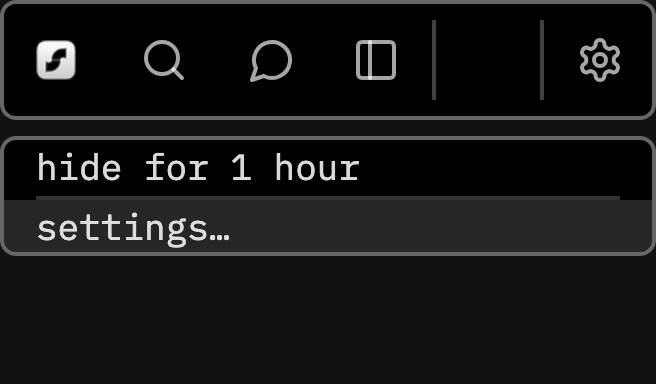
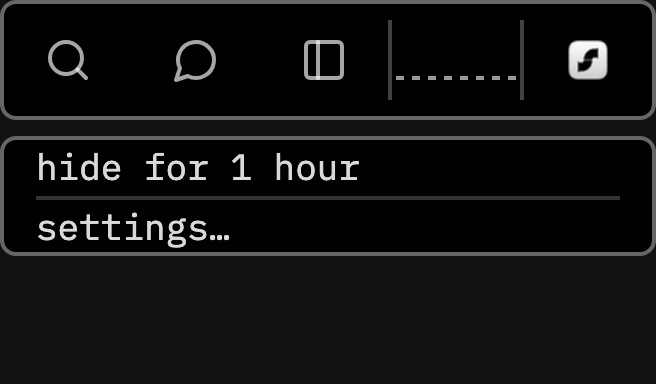
fix(overlay): move brand menu control to the right

diff --git a/apps/screenpipe-app-tauri/src-tauri/swift/shortcut_reminder_tests.swift b/apps/screenpipe-app-tauri/src-tauri/swift/shortcut_reminder_tests.swift
@@ -128,44 +128,44 @@ private func testMarginScales() {
     expectClose(top.y, visible.maxY - 8 - 16, "scaled top y")
 }
 
-/// The brand mark stays in the first expanded cell at either screen edge. The
+/// The brand mark stays in the rightmost expanded cell at either screen edge. The
 /// native context-menu handler uses this exact hit test, so a right-click on a
-/// neighboring search cell must never open the brand menu.
-private func testExpandedBrandCell() {
+/// neighboring audio cell must never open the brand menu.
+private func testExpandedBrandCellAtRight() {
     let bounds = NSRect(x: 0, y: 0, width: 160, height: 62)
     let topBrand = dockControl(
-        at: NSPoint(x: 10, y: 47),
+        at: NSPoint(x: 145, y: 47),
         in: bounds,
         expanded: true,
         disclosureDown: true,
         horizontal: .center,
         scale: 1
     )
-    expect(topBrand?.0 == "brand" && topBrand?.1 == 0, "brand should be first in top dock")
+    expect(topBrand?.0 == "brand" && topBrand?.1 == 4, "brand should be last in top dock")
 
     let search = dockControl(
-        at: NSPoint(x: 35, y: 47),
+        at: NSPoint(x: 15, y: 47),
         in: bounds,
         expanded: true,
         disclosureDown: true,
         horizontal: .center,
         scale: 1
     )
-    expect(search?.0 == "search" && search?.1 == 1, "search should follow brand")
+    expect(search?.0 == "search" && search?.1 == 0, "search should be first")
 
     let bottomBrand = dockControl(
-        at: NSPoint(x: 10, y: 15),
+        at: NSPoint(x: 145, y: 15),
         in: bounds,
         expanded: true,
         disclosureDown: false,
         horizontal: .center,
         scale: 1
     )
-    expect(bottomBrand?.0 == "brand", "brand should stay first in bottom dock")
+    expect(bottomBrand?.0 == "brand", "brand should stay last in bottom dock")
 
     expect(
         dockControl(
-            at: NSPoint(x: 10, y: 10),
+            at: NSPoint(x: 145, y: 10),
             in: bounds,
             expanded: true,
             disclosureDown: true,
@@ -176,7 +176,7 @@ private func testExpandedBrandCell() {
     )
     expect(
         dockControl(
-            at: NSPoint(x: 10, y: 47),
+            at: NSPoint(x: 145, y: 47),
             in: bounds,
             expanded: false,
             disclosureDown: true,
@@ -505,7 +505,7 @@ struct ShortcutReminderTests {
     static func main() {
         testAnchorPlacement()
         testMarginScales()
-        testExpandedBrandCell()
+        testExpandedBrandCellAtRight()
         testPadStaysOnScreen()
         testEdgeCentreSet()
         testLegacyCornersMigrate()

diff --git a/apps/screenpipe-app-tauri/app/shortcut-reminder/page.tsx b/apps/screenpipe-app-tauri/app/shortcut-reminder/page.tsx
@@ -21,7 +21,6 @@ import {
   PinOff,
   RotateCw,
   Search,
-  Settings,
   Square,
   X,
 } from "lucide-react";
@@ -802,31 +801,6 @@ export default function ShortcutReminderPage() {
         }}
       >
         <button
-          title="screenpipe — right-click for options"
-          aria-label="screenpipe — open timeline; right-click for options"
-          className={dockButtonClass}
-          style={dockButtonStyle}
-          onMouseEnter={() => setHoveredControl("brand")}
-          onMouseDown={(e) => e.stopPropagation()}
-          onPointerDown={(e) => e.stopPropagation()}
-          onClick={openTimeline}
-          onContextMenu={(e) => {
-            e.preventDefault();
-            e.stopPropagation();
-            setSettingsOpen(true);
-          }}
-        >
-          <span
-            aria-hidden="true"
-            className="bg-contain bg-center bg-no-repeat"
-            style={{
-              width: `${12 * overlayScale}px`,
-              height: `${12 * overlayScale}px`,
-              backgroundImage: "url('/32x32.png')",
-            }}
-          />
-        </button>
-        <button
           title="Open search"
           className={dockButtonClass}
           style={dockButtonStyle}
@@ -880,15 +854,29 @@ export default function ShortcutReminderPage() {
         </div>
         <div className="my-1 bg-white/25" style={{ width: "1px" }} />
         <button
-          title="Overlay settings"
+          title="screenpipe — right-click for options"
+          aria-label="screenpipe — open timeline; right-click for options"
           className={dockButtonClass}
           style={dockButtonStyle}
-          onMouseEnter={() => setHoveredControl("settings")}
+          onMouseEnter={() => setHoveredControl("brand")}
           onMouseDown={(e) => e.stopPropagation()}
           onPointerDown={(e) => e.stopPropagation()}
-          onClick={handleOpenSettings}
+          onClick={openTimeline}
+          onContextMenu={(e) => {
+            e.preventDefault();
+            e.stopPropagation();
+            setSettingsOpen(true);
+          }}
         >
-          <Settings style={{ width: `${12 * overlayScale}px`, height: `${12 * overlayScale}px` }} />
+          <span
+            aria-hidden="true"
+            className="bg-contain bg-center bg-no-repeat"
+            style={{
+              width: `${12 * overlayScale}px`,
+              height: `${12 * overlayScale}px`,
+              backgroundImage: "url('/32x32.png')",
+            }}
+          />
         </button>
       </div>
 

diff --git a/apps/screenpipe-app-tauri/src-tauri/swift/shortcut_reminder.swift b/apps/screenpipe-app-tauri/src-tauri/swift/shortcut_reminder.swift
@@ -461,7 +461,7 @@ private let kBaseNotificationW: CGFloat = 340
 private let kBaseNotificationH: CGFloat = 34
 private let kRestingOpacity: Double = 0.50
 private let kAnimDur: Double = 0.2
-private let kDockControls = ["brand", "search", "chat", "timeline", "audio", "settings"]
+private let kDockControls = ["search", "chat", "timeline", "audio", "brand"]
 
 /// Convert configured shortcuts to one stable, readable macOS order.
 /// Settings historically stored both `Super+Control+…` and
@@ -1144,13 +1144,6 @@ struct ShortcutReminderView: View {
 
     private var dockView: some View {
         HStack(spacing: 0) {
-            DockAppIconButton(
-                active: metrics.hoveredControl == "brand",
-                meetingActive: metrics.meetingActive,
-                scale: scale
-            ) {
-                onAction("open_timeline")
-            }
             DockIconButton(icon: "magnifyingglass", active: metrics.hoveredControl == "search", scale: scale) {
                 onAction("open_search")
             }
@@ -1170,8 +1163,12 @@ struct ShortcutReminderView: View {
 
             Rectangle().fill(.white.opacity(0.28)).frame(width: 1).padding(.vertical, s(4))
 
-            DockIconButton(icon: "gearshape", active: metrics.hoveredControl == "settings", scale: scale) {
-                onAction("open_overlay_settings")
+            DockAppIconButton(
+                active: metrics.hoveredControl == "brand",
+                meetingActive: metrics.meetingActive,
+                scale: scale
+            ) {
+                onAction("open_timeline")
             }
         }
         .frame(width: kBaseExpandedW * scale, height: kBaseDockH * scale)

diff --git a/apps/screenpipe-app-tauri/app/shortcut-reminder/page.test.tsx b/apps/screenpipe-app-tauri/app/shortcut-reminder/page.test.tsx
@@ -319,6 +319,7 @@ describe("recording health hover detail", () => {
     fireEvent.mouseEnter(await screen.findByTestId("shortcut-reminder-root"));
     const brand = await screen.findByTitle("screenpipe — right-click for options");
     expect(brand).toBeVisible();
+    expect(brand.parentElement?.lastElementChild).toBe(brand);
     fireEvent.contextMenu(brand);
 
     expect(screen.getByRole("menu", { name: "Shortcut reminder options" })).toBeVisible();
@@ -332,11 +333,8 @@ describe("recording health hover detail", () => {
     fireEvent.contextMenu(screen.getByTitle("screenpipe — right-click for options"));
     fireEvent.click(screen.getByTitle("Open overlay settings"));
     expect(mocks.showWindow).toHaveBeenCalledWith({ Home: { page: "display" } });
-
-    mocks.showWindow.mockClear();
-    fireEvent.click(screen.getByTitle("Overlay settings"));
-    expect(mocks.showWindow).toHaveBeenCalledWith({ Home: { page: "display" } });
     expect(screen.queryByRole("menu", { name: "Shortcut reminder options" })).toBeNull();
+    expect(screen.queryByTitle("Overlay settings")).toBeNull();
   });
 
   it("keeps a pinned transcript open after the pointer leaves", async () => {

diff --git a/crates/screenpipe-overlay-win/src/layout.rs b/crates/screenpipe-overlay-win/src/layout.rs
@@ -317,22 +317,16 @@ enum Block {
     Notification,
 }
 
-/// Brand plus three icon buttons, a divider, the audio meter, a divider,
-/// settings — the
+/// Three icon buttons, the audio meter, and the rightmost brand control — the
 /// dock from `dockView` in shortcut_reminder.swift.
 fn dock_cells(dock: Rect, s: f32) -> (Vec<(Control, Rect)>, Vec<Rect>) {
     let divider_w = 1.0f32.max(s.round());
-    let icon_controls = [
-        Control::Brand,
-        Control::Search,
-        Control::Chat,
-        Control::Timeline,
-    ];
+    let icon_controls = [Control::Search, Control::Chat, Control::Timeline];
     // Audio is a status cell, not a button, but it still highlights on hover.
     let usable = dock.w - divider_w * 2.0;
-    // Six cells: brand, three icons, the meter, settings. The meter gets the same
+    // Five cells: three icons, the meter, and brand. The meter gets the same
     // share as an icon so the row reads as evenly spaced.
-    let cell_w = usable / 6.0;
+    let cell_w = usable / 5.0;
 
     let mut cells = Vec::new();
     let mut dividers = Vec::new();
@@ -348,7 +342,7 @@ fn dock_cells(dock: Rect, s: f32) -> (Vec<(Control, Rect)>, Vec<Rect>) {
     dividers.push(Rect::new(x, dock.y + 4.0 * s, divider_w, dock.h - 8.0 * s));
     x += divider_w;
     cells.push((
-        Control::Settings,
+        Control::Brand,
         Rect::new(x, dock.y, dock.right() - x, dock.h),
     ));
     (cells, dividers)
@@ -464,7 +458,15 @@ mod tests {
     #[test]
     fn every_dock_cell_is_clickable_and_they_tile_the_dock() {
         let l = compute(&hovered());
-        assert_eq!(l.dock_cells.len(), 6);
+        assert_eq!(l.dock_cells.len(), 5);
+        assert_eq!(
+            l.dock_cells.first().map(|(control, _)| *control),
+            Some(Control::Search)
+        );
+        assert_eq!(
+            l.dock_cells.last().map(|(control, _)| *control),
+            Some(Control::Brand)
+        );
         let dock = l.primary;
         for (_, c) in &l.dock_cells {
             assert!(c.y == dock.y && c.h == dock.h);

diff --git a/crates/screenpipe-overlay-win/src/actions.rs b/crates/screenpipe-overlay-win/src/actions.rs
@@ -29,7 +29,7 @@ pub fn action_for(state: &OverlayState, control: Control) -> Option<String> {
         Control::Pill | Control::Brand | Control::Timeline => "open_timeline",
         Control::Search => "open_search",
         Control::Chat => "open_chat",
-        Control::Settings => "open_overlay_settings",
+        Control::Settings => return None,
         Control::RestartRecording => "restart_recording",
         Control::DismissIncident => "dismiss_incident",
         // The audio meter is a status cell, not a button — same as the mac
@@ -115,10 +115,7 @@ mod tests {
         assert_eq!(action_for(&s, Control::Timeline).unwrap(), "open_timeline");
         assert_eq!(action_for(&s, Control::Pill).unwrap(), "open_timeline");
         assert_eq!(action_for(&s, Control::Brand).unwrap(), "open_timeline");
-        assert_eq!(
-            action_for(&s, Control::Settings).unwrap(),
-            "open_overlay_settings"
-        );
+        assert_eq!(action_for(&s, Control::Settings), None);
         assert_eq!(
             action_for(&s, Control::RestartRecording).unwrap(),
             "restart_recording"
